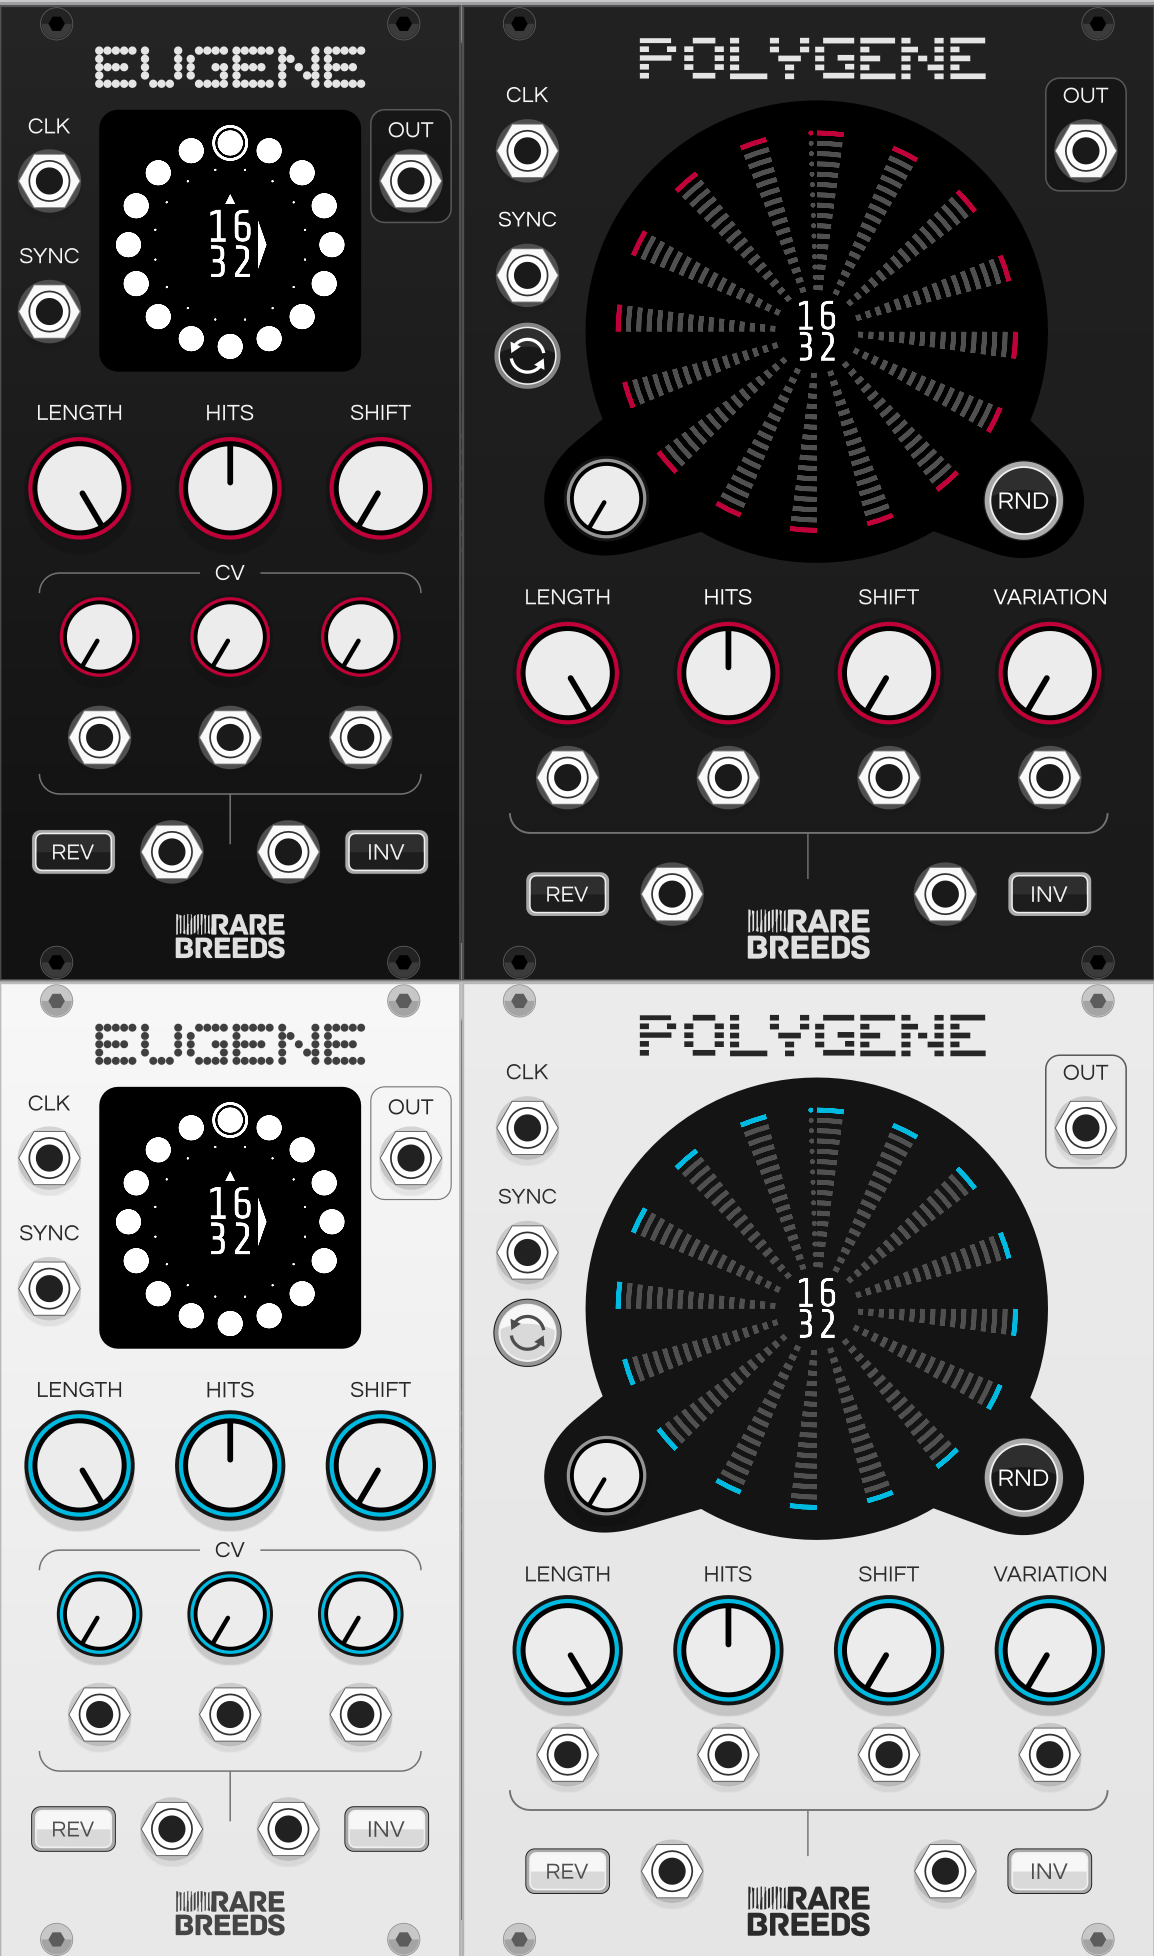
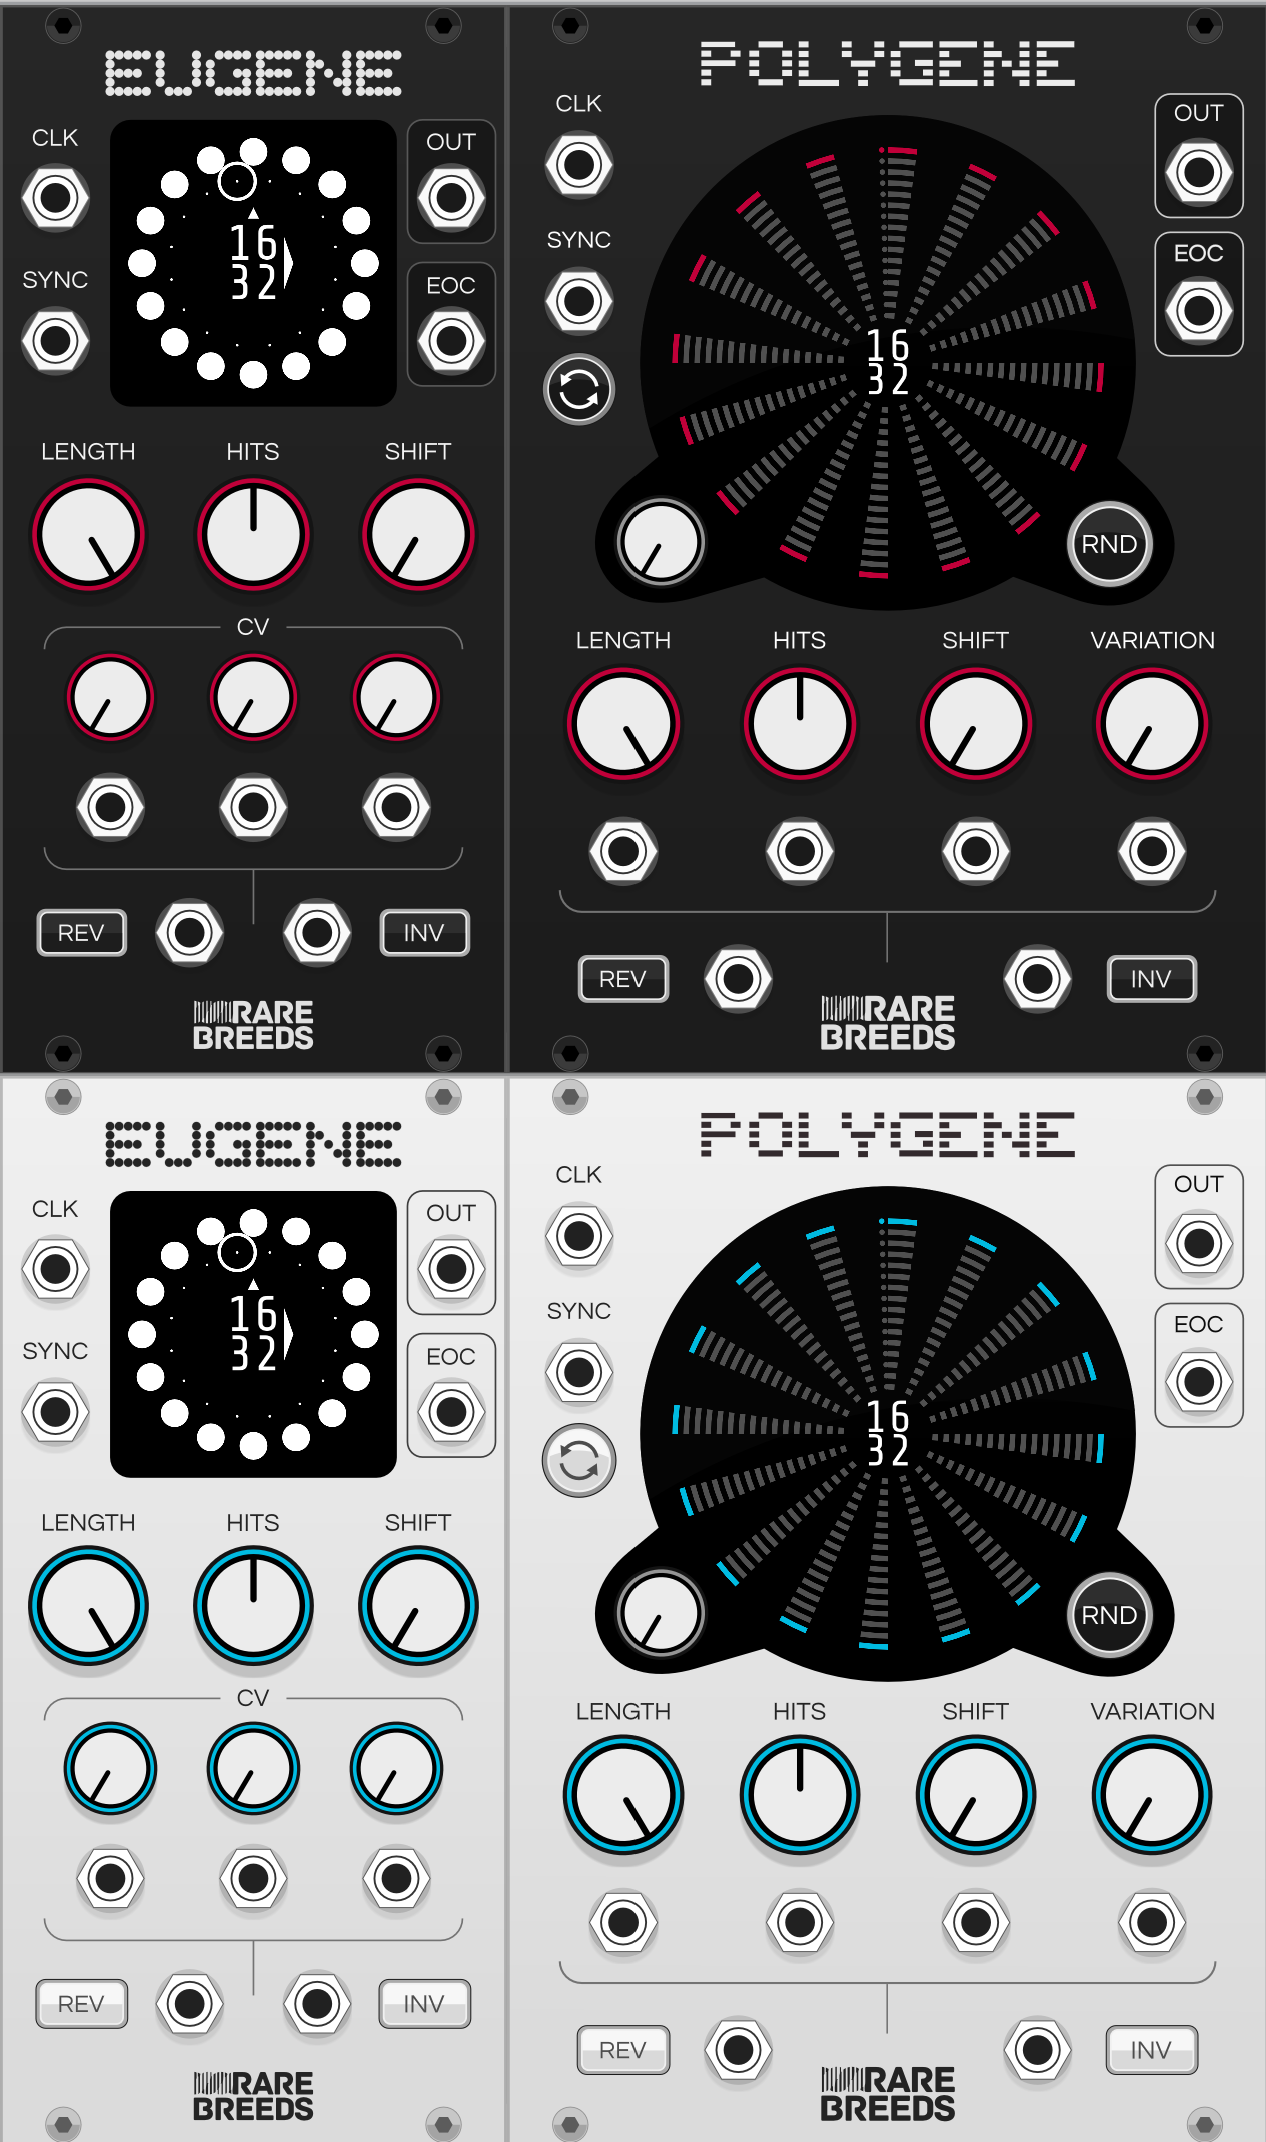
Manual updates for EOC.

diff --git a/manual/docs/index.md b/manual/docs/index.md
@@ -21,6 +21,7 @@ Eugene is a [Euclidean Rhythm](https://en.wikipedia.org/wiki/Euclidean_rhythm) g
  * Sync input for syncing the start of the rhythm with another signal
  * Shift knob for selecting the initial beat of the rhythm
  * Lots of CV controllable parameters
+ * End of cycle (EOC) pulse (configurable to trigger on repeat, first or last beat)
 
 ### Panel
 
@@ -29,13 +30,25 @@ Eugene is a [Euclidean Rhythm](https://en.wikipedia.org/wiki/Euclidean_rhythm) g
 ![Display](img/display.png)
 
 ### Out : Output
-A pulse is output when an on-beat (hit) is clocked. 0-10V Unipolar CV 1ms pulse duration.
+A pulse is output when an on-beat (hit) is clocked.
 
-### Clk : Input
-A rising edge advances the current beat. Schmitt triggered.
+0-10V Unipolar CV 1ms pulse duration.
 
-### Sync : Input
-A rising edge resets the current beat to the first beat of the rhythm which is always 12 o'clock on the display. Schmitt triggered.
+### EOC : Output
+A pulse is output when a new cycle starts.
+
+There's 3 behaviour options available when right clicking the module:
+ - On Repeat - On the first beat of the new cycle, only if a cycle has been completed.
+ - First - On the first beat of the cycle, even if a cycle hasn't been completed.
+ - Last - On the last beat of the cycle.
+
+0-10V Unipolar CV 1ms pulse duration.
+
+### Clk : Input, Rising Edge Sensitive, Schmitt triggered
+A rising edge advances the current beat.
+
+### Sync : Input, Rising Edge Sensitive, Schmitt triggered
+A rising edge resets the current beat to the first beat of the rhythm which is always 12 o'clock on the display.
 
 ### Length : Input
 The number of beats in the rhythm. Integer range between 1 to 32 inclusive.
@@ -45,12 +58,13 @@ The number of on-beats in the rhythm, or the density. Integer range between 0 an
 
 ### Shift : Input
 Sets the beat in the rhythm to start from. A sync pulse will set the current beat to this number of beats before beat 0. Integer range between 0 and the current Length - 1 inclusive.
+
 Rotating this knob has the effect of rotating the start beat the same direction around the circle.
 
-### Reverse : Input
+### Reverse : Input, Level Sensitive, Schmitt triggered
 Sets the direction that the clock advances the beat. Clockwise when off, anticlockwise when on.
 
-### Invert : Input
+### Invert : Input, Level Sensitive, Schmitt triggered
 Inverts the Euclidean algorithm. When this switch is on on-beats become off-beats and off-beats become on-beats. Visually you can tell this is enabled by the on-beats being represented as empty circles rather than whole ones.
 
 ![Invert](img/invert.png)
@@ -83,6 +97,7 @@ Polygene is a polyphonic rhythm generator module.
  * Sync button and CV input for syncing the start of the rhythm with another signal
  * Shift knob for selecting the initial beat of the rhythm
  * Lots of CV controllable parameters
+ * End of cycle (EOC) pulse (configurable to trigger on repeat, first or last beat)
 
 ### Panel
 
@@ -159,5 +174,17 @@ If the invert CV input is connected its values are used in preference to the but
 A pulse is output when an on-beat (hit) is clocked for that channel.
 
 The number of output channels matches the number of channels active on the clock input.
+
+0-10V Unipolar CV 1ms pulse duration.
+
+### EOC : Output, Polyphonic
+A pulse is output on each channel when a new cycle for that channel starts.
+
+The number of output channels matches the number of channels active on the clock input.
+
+There's 3 behaviour options available when right clicking the module:
+ - On Repeat - On the first beat of the new cycle, only if a cycle has been completed.
+ - First - On the first beat of the cycle, even if a cycle hasn't been completed.
+ - Last - On the last beat of the cycle.
 
 0-10V Unipolar CV 1ms pulse duration.
